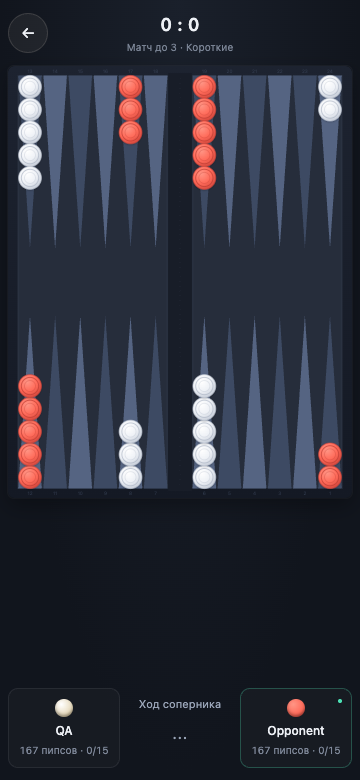
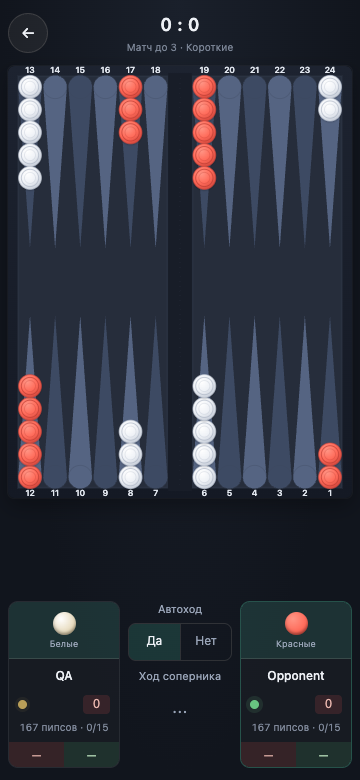
feat(web): reference player panels and rounded numbered board points

diff --git a/apps/web/src/screens/Game.tsx b/apps/web/src/screens/Game.tsx
@@ -402,6 +402,33 @@ export function GameScreen({ onExit }: { onExit: () => void }) {
     const p = g.players[c];
     const clk = clockFor(c);
     const active = act === c;
+    if (compact) {
+      const running = act === c && clocks?.turnStartedAt != null;
+      const elapsed = running ? Math.max(0, serverNow - clocks!.turnStartedAt!) : 0;
+      const bankLeft = clocks?.bank ? clocks.bank[c] - (running ? Math.max(0, elapsed - clocks.moveTimerMs) : 0) : null;
+      const moveLeft = clocks?.moveTimerMs ? Math.max(0, clocks.moveTimerMs - elapsed) : null;
+      const pieceLabel = c === 0 ? T.white : st.theme === 'minimal' ? T.red : T.black;
+      return <div className={'pbar player-card' + (active ? ' active' : '')}>
+        <div className="player-piece">
+          <span className={'pchip ' + (c === 0 ? 'w' : 'b')} data-theme-chip={st.theme} />
+          <span>{pieceLabel}</span>
+        </div>
+        <div className="player-card-body">
+          <div className="pname" title={p?.name}>{p?.name ?? '—'}</div>
+          {p && !p.connected && <span className="tag warn">{T.offline}</span>}
+          <div className="player-card-state">
+            <i className={'turn-light' + (active ? ' active' : '')} title={active ? T.hotseatTurn : undefined} />
+            <span className="player-score" title={T.score}>{m.score[c]}</span>
+            {m.cube.owner === c && m.settings.cube && <Cube value={m.cube.value} />}
+          </div>
+          <div className="pmeta" data-pips={c === viewer ? 'me' : 'opp'}>{pipCount(board, c)} {T.pips} · {board.off[c]}/15</div>
+        </div>
+        <div className="player-timers">
+          <span className="bank-time" title={T.bank}>{bankLeft === null ? '—' : fmt(bankLeft)}</span>
+          <span className={'move-time' + (clk?.low ? ' low' : '')} title={T.moveTimer}>{moveLeft === null ? '—' : fmt(moveLeft)}</span>
+        </div>
+      </div>;
+    }
     return (
       <div className={'pbar' + (active ? ' active' : '') + (bottom ? ' bottom' : '')}>
         <span className={'pchip ' + (c === 0 ? 'w' : 'b')} data-theme-chip={st.theme} />
@@ -615,6 +642,13 @@ export function GameScreen({ onExit }: { onExit: () => void }) {
       <div className={compact ? 'mobile-hud' : 'desktop-hud'}>
       {compact && playerBar(viewer, true)}
       <div className="controls">
+        {compact && <div className="auto-move" role="group" aria-label={T.autoConfirm}>
+          <span title={T.autoConfirm}>{T.autoMove}</span>
+          <div className="auto-choices">
+            <button type="button" aria-pressed={st.autoConfirm} onClick={() => st.set({ autoConfirm: true })}>{T.yes}</button>
+            <button type="button" aria-pressed={!st.autoConfirm} onClick={() => st.set({ autoConfirm: false })}>{T.no}</button>
+          </div>
+        </div>}
         <span className="status">{statusText}</span>
         {pending && !sent && pending.chains.length > 0 && (
           <>

diff --git a/apps/web/src/styles.css b/apps/web/src/styles.css
@@ -903,3 +903,27 @@ input:focus {
 .phone-game .score small { font-size: 10px; opacity: .75; }
 .phone-game .board-svg { box-shadow: 0 8px 20px rgba(0,0,0,.3), 0 0 0 1px rgba(255,255,255,.04); }
 .phone-more { position: absolute; z-index: 10; bottom: 12px; left: 8px; right: 8px; background: var(--bg); border: 1px solid var(--panel-b); border-radius: 12px; padding: 8px; box-shadow: 0 6px 30px #0008; }
+
+/* Reference composition, without avatars: piece band, identity, score, clocks. */
+.mobile-hud .player-card { justify-content: flex-start; padding: 0; gap: 0; overflow: hidden; border-radius: 10px; }
+.mobile-hud .player-card.active::after { display: none; }
+.player-piece { display: flex; flex-direction: column; align-items: center; gap: 3px; width: 100%; padding: 10px 4px 7px; background: color-mix(in srgb, var(--accent) 12%, transparent); border-bottom: 1px solid var(--panel-b); font-size: 9px; color: var(--muted); }
+.mobile-hud .player-piece .pchip { width: 23px; height: 23px; }
+.player-card-body { padding: 9px 5px 8px; width: 100%; flex: 1; }
+.mobile-hud .player-card .pname { display: block; overflow: hidden; text-overflow: ellipsis; font-size: 12px; }
+.player-card-state { display: flex; align-items: center; justify-content: space-between; gap: 4px; margin: 10px 4px 6px; }
+.turn-light { width: 9px; height: 9px; border-radius: 50%; background: #b89e58; box-shadow: 0 0 0 3px rgba(184,158,88,.08); }
+.turn-light.active { background: #68c481; box-shadow: 0 0 0 4px rgba(104,196,129,.12); }
+.player-score { min-width: 27px; border-radius: 4px; padding: 1px 5px; background: rgba(207,79,70,.17); color: #eab6ae; font-size: 12px; font-variant-numeric: tabular-nums; }
+.player-card-state .dcube { width: 22px; height: 22px; font-size: 11px; }
+.player-timers { width: 100%; display: grid; grid-template-columns: 1fr 1fr; font-size: 11px; font-variant-numeric: tabular-nums; }
+.player-timers span { padding: 5px 1px; }
+.bank-time { background: rgba(190,72,62,.18); color: #e6b4ab; }
+.move-time { background: rgba(67,140,85,.20); color: #b0d6b4; }
+.move-time.low { color: #ffb2a7; }
+.mobile-hud .controls { justify-content: flex-start; gap: 7px; }
+.auto-move { width: 100%; text-align: center; color: var(--muted); font-size: 11px; }
+.auto-choices { display: grid; grid-template-columns: 1fr 1fr; margin-top: 6px; border: 1px solid var(--panel-b); border-radius: 8px; overflow: hidden; }
+.auto-choices button { min-width: 0; min-height: 36px; padding: 6px 2px; border: none; background: transparent; font-size: 12px; cursor: pointer; }
+.auto-choices button + button { border-left: 1px solid var(--panel-b); }
+.auto-choices button[aria-pressed="true"] { background: color-mix(in srgb, var(--accent) 16%, transparent); color: var(--text); }

diff --git a/apps/web/src/components/Board.tsx b/apps/web/src/components/Board.tsx
@@ -92,8 +92,8 @@ function pointPath(slot: number, g: Geometry): string {
   const { TOP, BOTTOM, POINT_LEN } = g;
   const cx = slotX(slot);
   const half = PW / 2 - 2;
-  if (isTop(slot)) return `M${cx - half},${TOP} L${cx + half},${TOP} L${cx},${TOP + POINT_LEN} Z`;
-  return `M${cx - half},${BOTTOM} L${cx + half},${BOTTOM} L${cx},${BOTTOM - POINT_LEN} Z`;
+  if (isTop(slot)) return `M${cx - half},${TOP + R} A${half},${R} 0 0 1 ${cx + half},${TOP + R} L${cx},${TOP + POINT_LEN} Z`;
+  return `M${cx + half},${BOTTOM - R} A${half},${R} 0 0 1 ${cx - half},${BOTTOM - R} L${cx},${BOTTOM - POINT_LEN} Z`;
 }
 
 const StaticBoard = memo(function StaticBoard({ th, id, g, showTray }: { th: BoardTheme; id: string; g: Geometry; showTray: boolean }) {
@@ -118,13 +118,14 @@ const StaticBoard = memo(function StaticBoard({ th, id, g, showTray }: { th: Boa
       {Array.from({ length: 24 }, (_, s) => (
         <path key={s} d={pointPath(s, g)} fill={s % 2 === 0 ? th.pointA : th.pointB} stroke={th.pointStroke} strokeWidth="1" />
       ))}
+      {Array.from({ length: 24 }, (_, slot) => <circle key={'seat-' + slot} data-point-seat={slot} cx={slotX(slot)} cy={isTop(slot) ? TOP + R : BOTTOM - R} r={R + 1} fill="none" stroke={th.inlay} strokeOpacity="0.5" strokeWidth="1.5" />)}
       <rect x={BAR_X} y={TOP - 6} width={BAR_W} height={BOTTOM - TOP + 12} fill={th.bar} />
       {th.fieldTexture === 'wood' && <rect x={BAR_X} y={TOP - 6} width={BAR_W} height={BOTTOM - TOP + 12} fill="#000" filter={`url(#${id}-grain)`} opacity="0.5" />}
       <line x1={BAR_X + BAR_W / 2} y1={TOP + 8} x2={BAR_X + BAR_W / 2} y2={BOTTOM - 8} stroke={th.inlay} strokeOpacity="0.4" strokeDasharray="2 10" />
       {showTray && <rect x={TRAY_X} y={TOP} width={TRAY_W} height={BOTTOM - TOP} rx="8" fill={th.tray} />}
       {showTray && <line x1={TRAY_X + 8} y1={MID_Y} x2={TRAY_X + TRAY_W - 8} y2={MID_Y} stroke={th.inlay} strokeOpacity="0.45" />}
       {Array.from({ length: 24 }, (_, s) => (
-        <text key={s} x={slotX(s)} y={isTop(s) ? TOP - 7 : BOTTOM + 17} fontSize="12" textAnchor="middle" fill={th.inlay} opacity="0.75" style={{ userSelect: 'none' }}>
+        <text key={s} x={slotX(s)} data-point-number={s + 1} y={isTop(s) ? TOP - 5 : BOTTOM + 19} fontSize="22" fontWeight="600" textAnchor="middle" fill={th.number} style={{ userSelect: 'none' }}>
           {s + 1}
         </text>
       ))}

diff --git a/apps/web/src/components/themes.ts b/apps/web/src/components/themes.ts
@@ -14,6 +14,7 @@ export interface BoardTheme {
   bar: string;
   tray: string;
   inlay: string;
+  number: string;
   white: { base: string; light: string; dark: string; ring: string };
   black: { base: string; light: string; dark: string; ring: string };
   hint: { fill: string; edge: string };
@@ -34,6 +35,7 @@ export const THEMES: Record<Theme, BoardTheme> = {
     bar: '#4a2412',
     tray: '#3b1c0c',
     inlay: '#c99a4b',
+    number: '#fff0ce',
     white: { base: '#f4ead2', light: '#fffaf0', dark: '#c9b78f', ring: '#b49a6a' },
     black: { base: '#2a1b14', light: '#5a4032', dark: '#120a06', ring: '#7a5a3a' },
     hint: { fill: '#d8bc83', edge: '#302219' },
@@ -52,6 +54,7 @@ export const THEMES: Record<Theme, BoardTheme> = {
     bar: '#181d28',
     tray: '#171c27',
     inlay: '#3b465c',
+    number: '#e2e7ef',
     white: { base: '#eef1f6', light: '#ffffff', dark: '#c3cad6', ring: '#a9b2c2' },
     black: { base: '#ff6b5a', light: '#ff9585', dark: '#d1453a', ring: '#b8382f' },
     hint: { fill: '#a7c9c0', edge: '#14221f' },
@@ -70,6 +73,7 @@ export const THEMES: Record<Theme, BoardTheme> = {
     bar: '#6d521d',
     tray: '#4d3a12',
     inlay: '#e2c26a',
+    number: '#fff9e8',
     white: { base: '#efe8da', light: '#ffffff', dark: '#c8bba1', ring: '#d4af37' },
     black: { base: '#1c1f22', light: '#4a5056', dark: '#050607', ring: '#d4af37' },
     hint: { fill: '#d1c493', edge: '#10261d' },

diff --git a/apps/web/scripts/contrast.ts b/apps/web/scripts/contrast.ts
@@ -9,6 +9,14 @@ for (const [name, th] of Object.entries(THEMES)) {
     if (best < 3) fails.push(`${name}: hint vs ${bgName} ${bg} = ${best.toFixed(2)}`);
   }
 }
+let numberPairs = 0; let numberMin = Infinity;
+for (const [name, th] of Object.entries(THEMES)) {
+  for (const [bgName, bg] of Object.entries({ frame: th.frame, frameDark: th.frameDark })) {
+    const contrast = ratio(th.number, bg); numberPairs++; numberMin = Math.min(numberMin, contrast);
+    if (contrast < 4.5) fails.push(`${name}: point numbers vs ${bgName} = ${contrast.toFixed(2)}`);
+  }
+}
+console.log(`point numbers checked ${numberPairs} pairs, minimum contrast ${numberMin.toFixed(2)}:1`);
 const bandPx = ((HINT_EDGE_W - HINT_FILL_W) / 2) * (344 / 1000);
 if (bandPx < 0.65) fails.push(`edge band ${bandPx.toFixed(2)} px at 360 < 0.65`);
 console.log(`checked ${checked} pairs (expected 15), edge band ${bandPx.toFixed(2)} px`);

diff --git a/apps/web/src/lib/i18n.ts b/apps/web/src/lib/i18n.ts
@@ -109,6 +109,8 @@ const ru = {
   instant: 'Мгновенно',
   autoRoll: 'Автобросок костей',
   autoConfirm: 'Автоподтверждение хода',
+  autoMove: 'Автоход',
+  red: 'Красные',
   hints: 'Подсказки ходов',
   shakeToRoll: 'Бросок встряхиванием',
   enableShake: 'Включить встряхивание',
@@ -243,6 +245,8 @@ const en: Dict = {
   instant: 'Instant',
   autoRoll: 'Auto-roll dice',
   autoConfirm: 'Auto-confirm move',
+  autoMove: 'Auto move',
+  red: 'Red',
   hints: 'Move hints',
   shakeToRoll: 'Shake to roll',
   enableShake: 'Enable shake',

diff --git a/docs/superpowers/plans/2026-11-15-mobile-ux-rejoin.md b/docs/superpowers/plans/2026-11-15-mobile-ux-rejoin.md
@@ -516,3 +516,9 @@ Round 3 (Opus, fresh context) — 0 P0/P1; rounds 1-2 fixes confirmed by executi
 
 - Changed only mobile HUD CSS to a three-column row: player /104px controls / opponent. Controls now sit in column2,row1; player cards use compact centered content, and the whole HUD keeps margin-top:auto and12px bottom/safe-area padding. Board untouched.
 - Live360x780 across wood/minimal/malachite, own/opponent/manual roll/double/undo/10-stack:21 browser pages including auxiliary countdown captures, console errors0. Every captured state measured controls between cards on the same row, HUD bottom gap12px; board top66.1875,width344,height431.953125 unchanged. Build/diff checks EXIT=0; state checks EXIT=0. Added centered-{state}-360-{theme}.png. No push/deploy.
+
+### Owner revision: reference cards without avatars, rounded points and clear numbering (2026-11-15)
+
+- Phone player cards now follow the reference hierarchy without an avatar or avatar placeholder: piece/color band, name, active-turn light and match score, pip/off metadata, then separate bank/move timer cells. In minimal theme the coral side is explicitly labeled Красные/Red; other themes use Белые/Чёрные. Clock cells use actual server clocks and show a dash when disabled. Center controls include a Yes/No auto-confirm setting with compact Автоход label and explicit auto-confirm accessibility label.
+- Board point bases now use circular arcs with24 round checker seats. Point numbers are22-unit semibold high-contrast theme text instead of faint12-unit labels. External board position/size/proportions unchanged: at360x780 top66.1875,width344,height431.953125; bottom HUD gap12px, controls remain between cards. No avatars added.
+- Web typecheck/build/diff check EXIT=0. Hint contrast15 pairs passed; point-number contrast6 pairs, minimum4.78:1. Phone six-state matrix21 pages: controls between/same row, exact board bounds and bottom gap preserved, console errors0, EXIT=0. Additional6 live online phone pages:24 seats and24 numbers in each theme, actual clocks with supported bank180s/move15s display3:00/0:15; Yes/No persisted false/true, console errors0, EXIT=0. Full e2e EXIT=0: undo restored354 pips; reconnect/rejected move, stack/ghost/tray, rejoin and shake gates green; online pips149/136; ERRORS=[]. Refreshed centered-* states and added reference-360-{theme}.png. No push/deploy.
